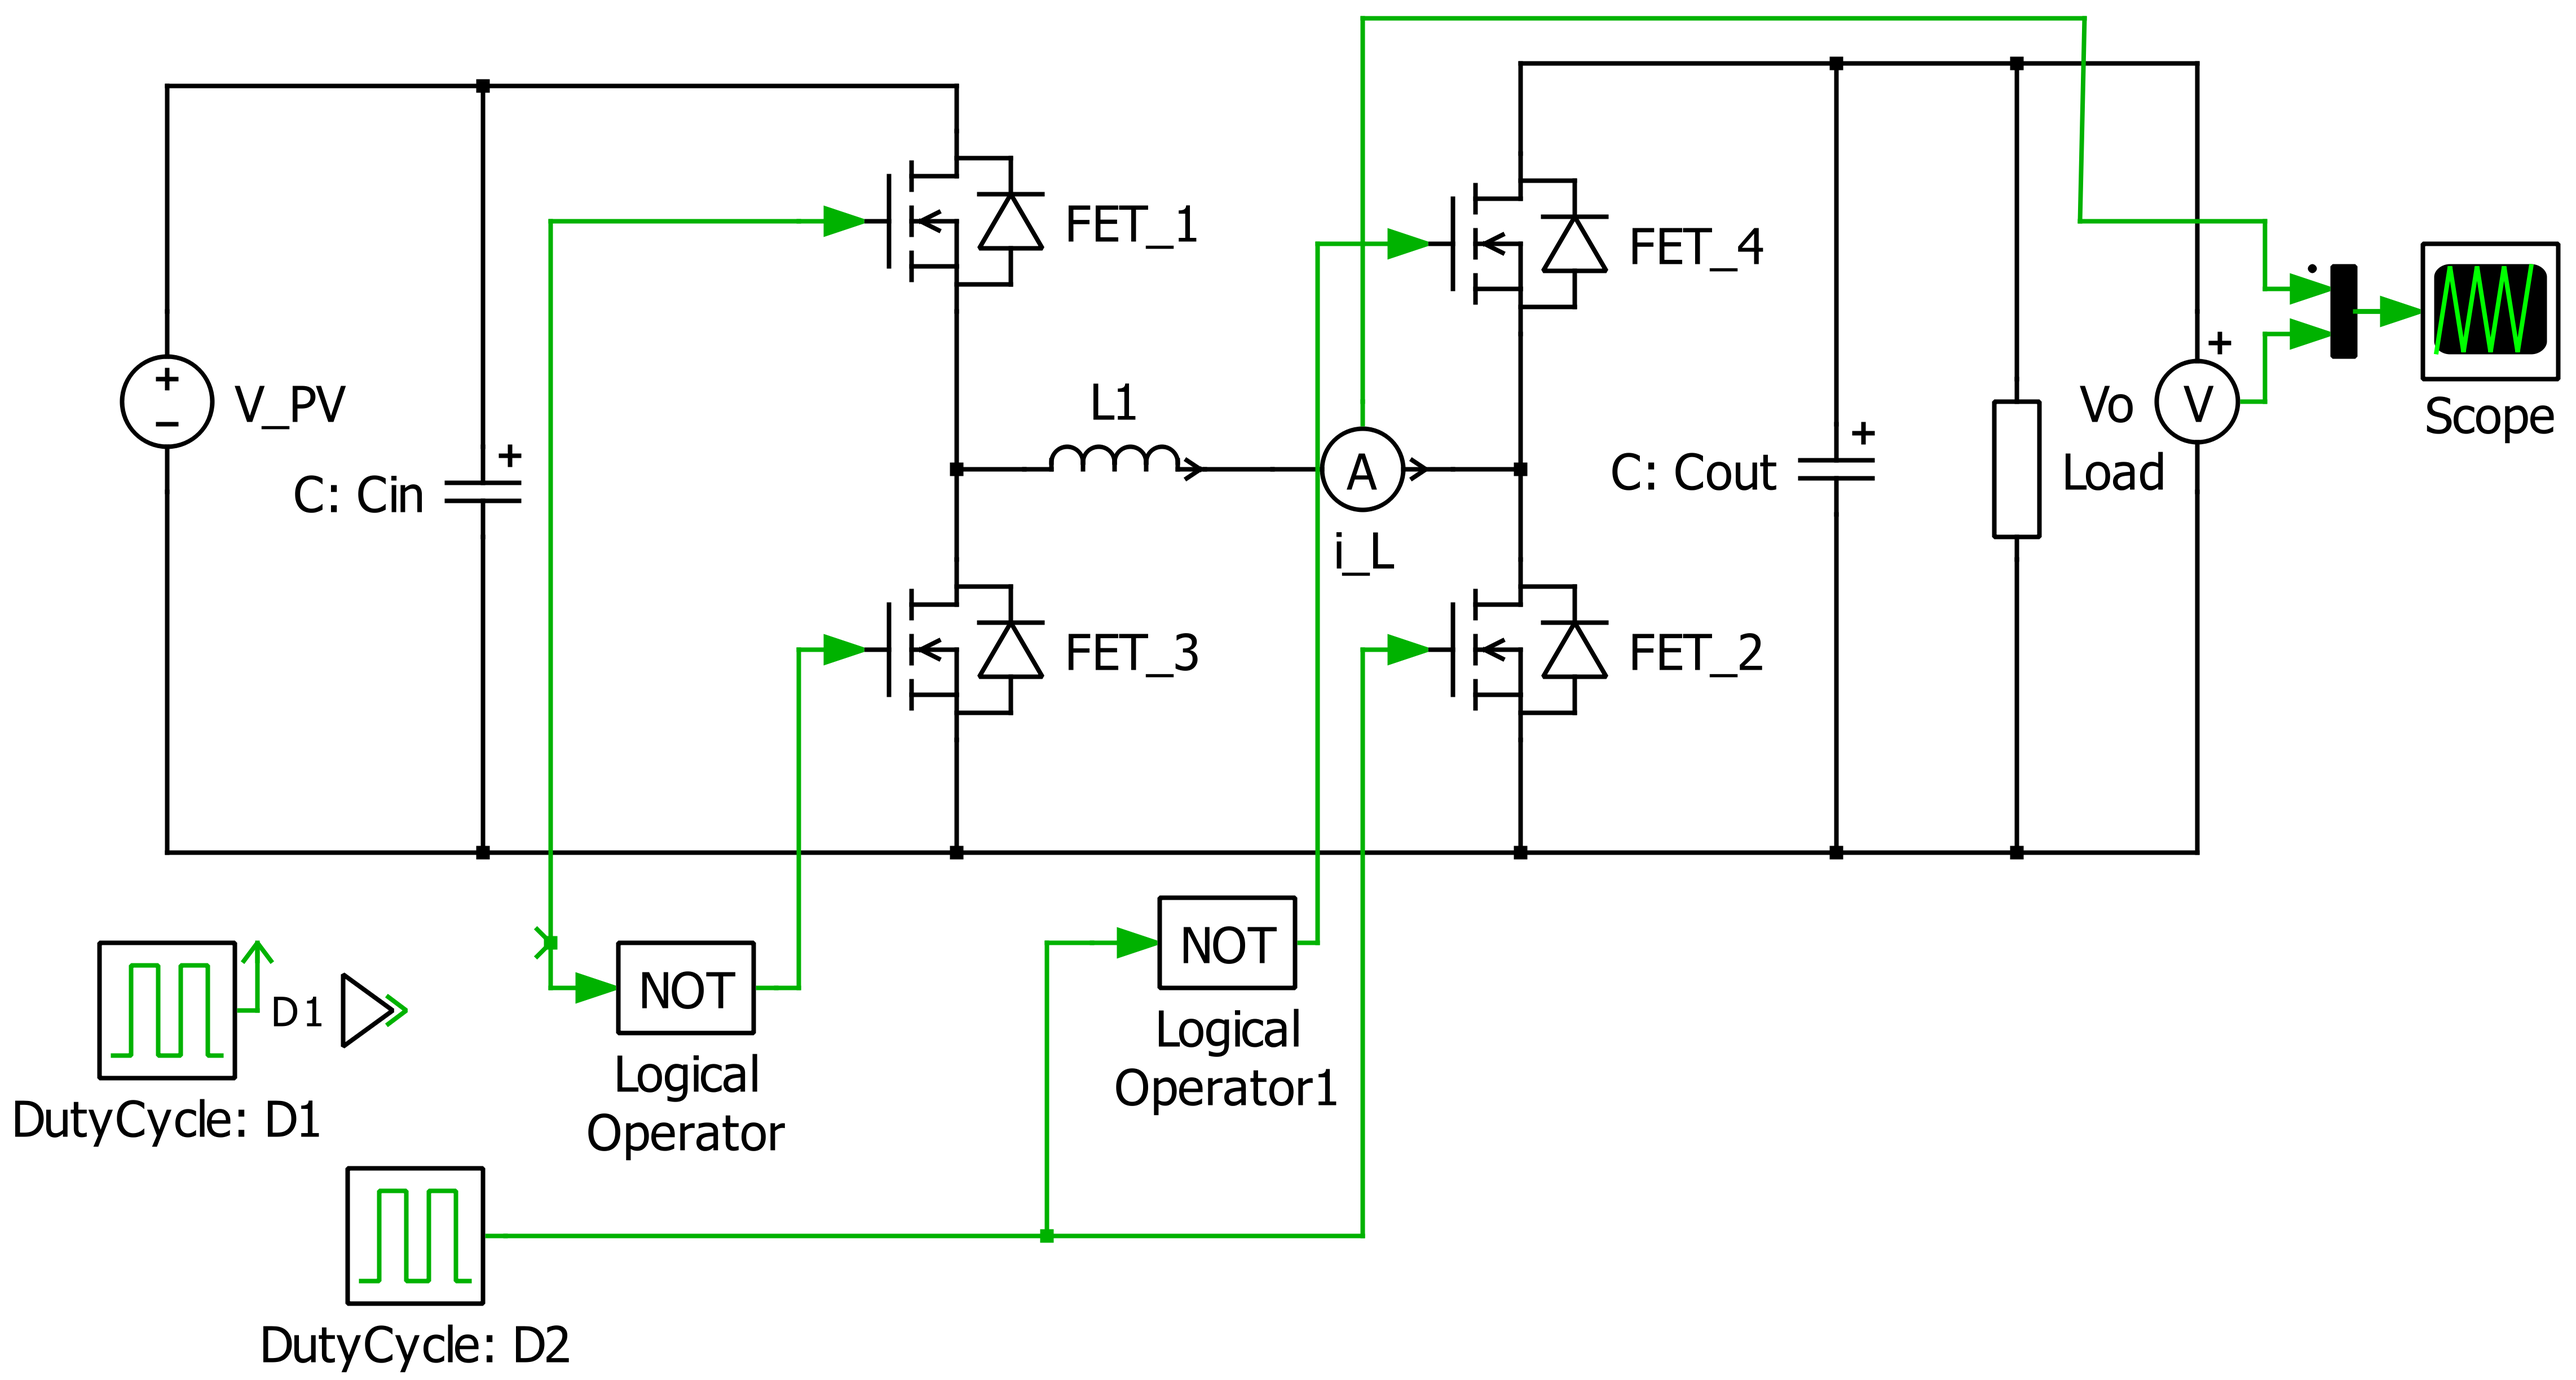
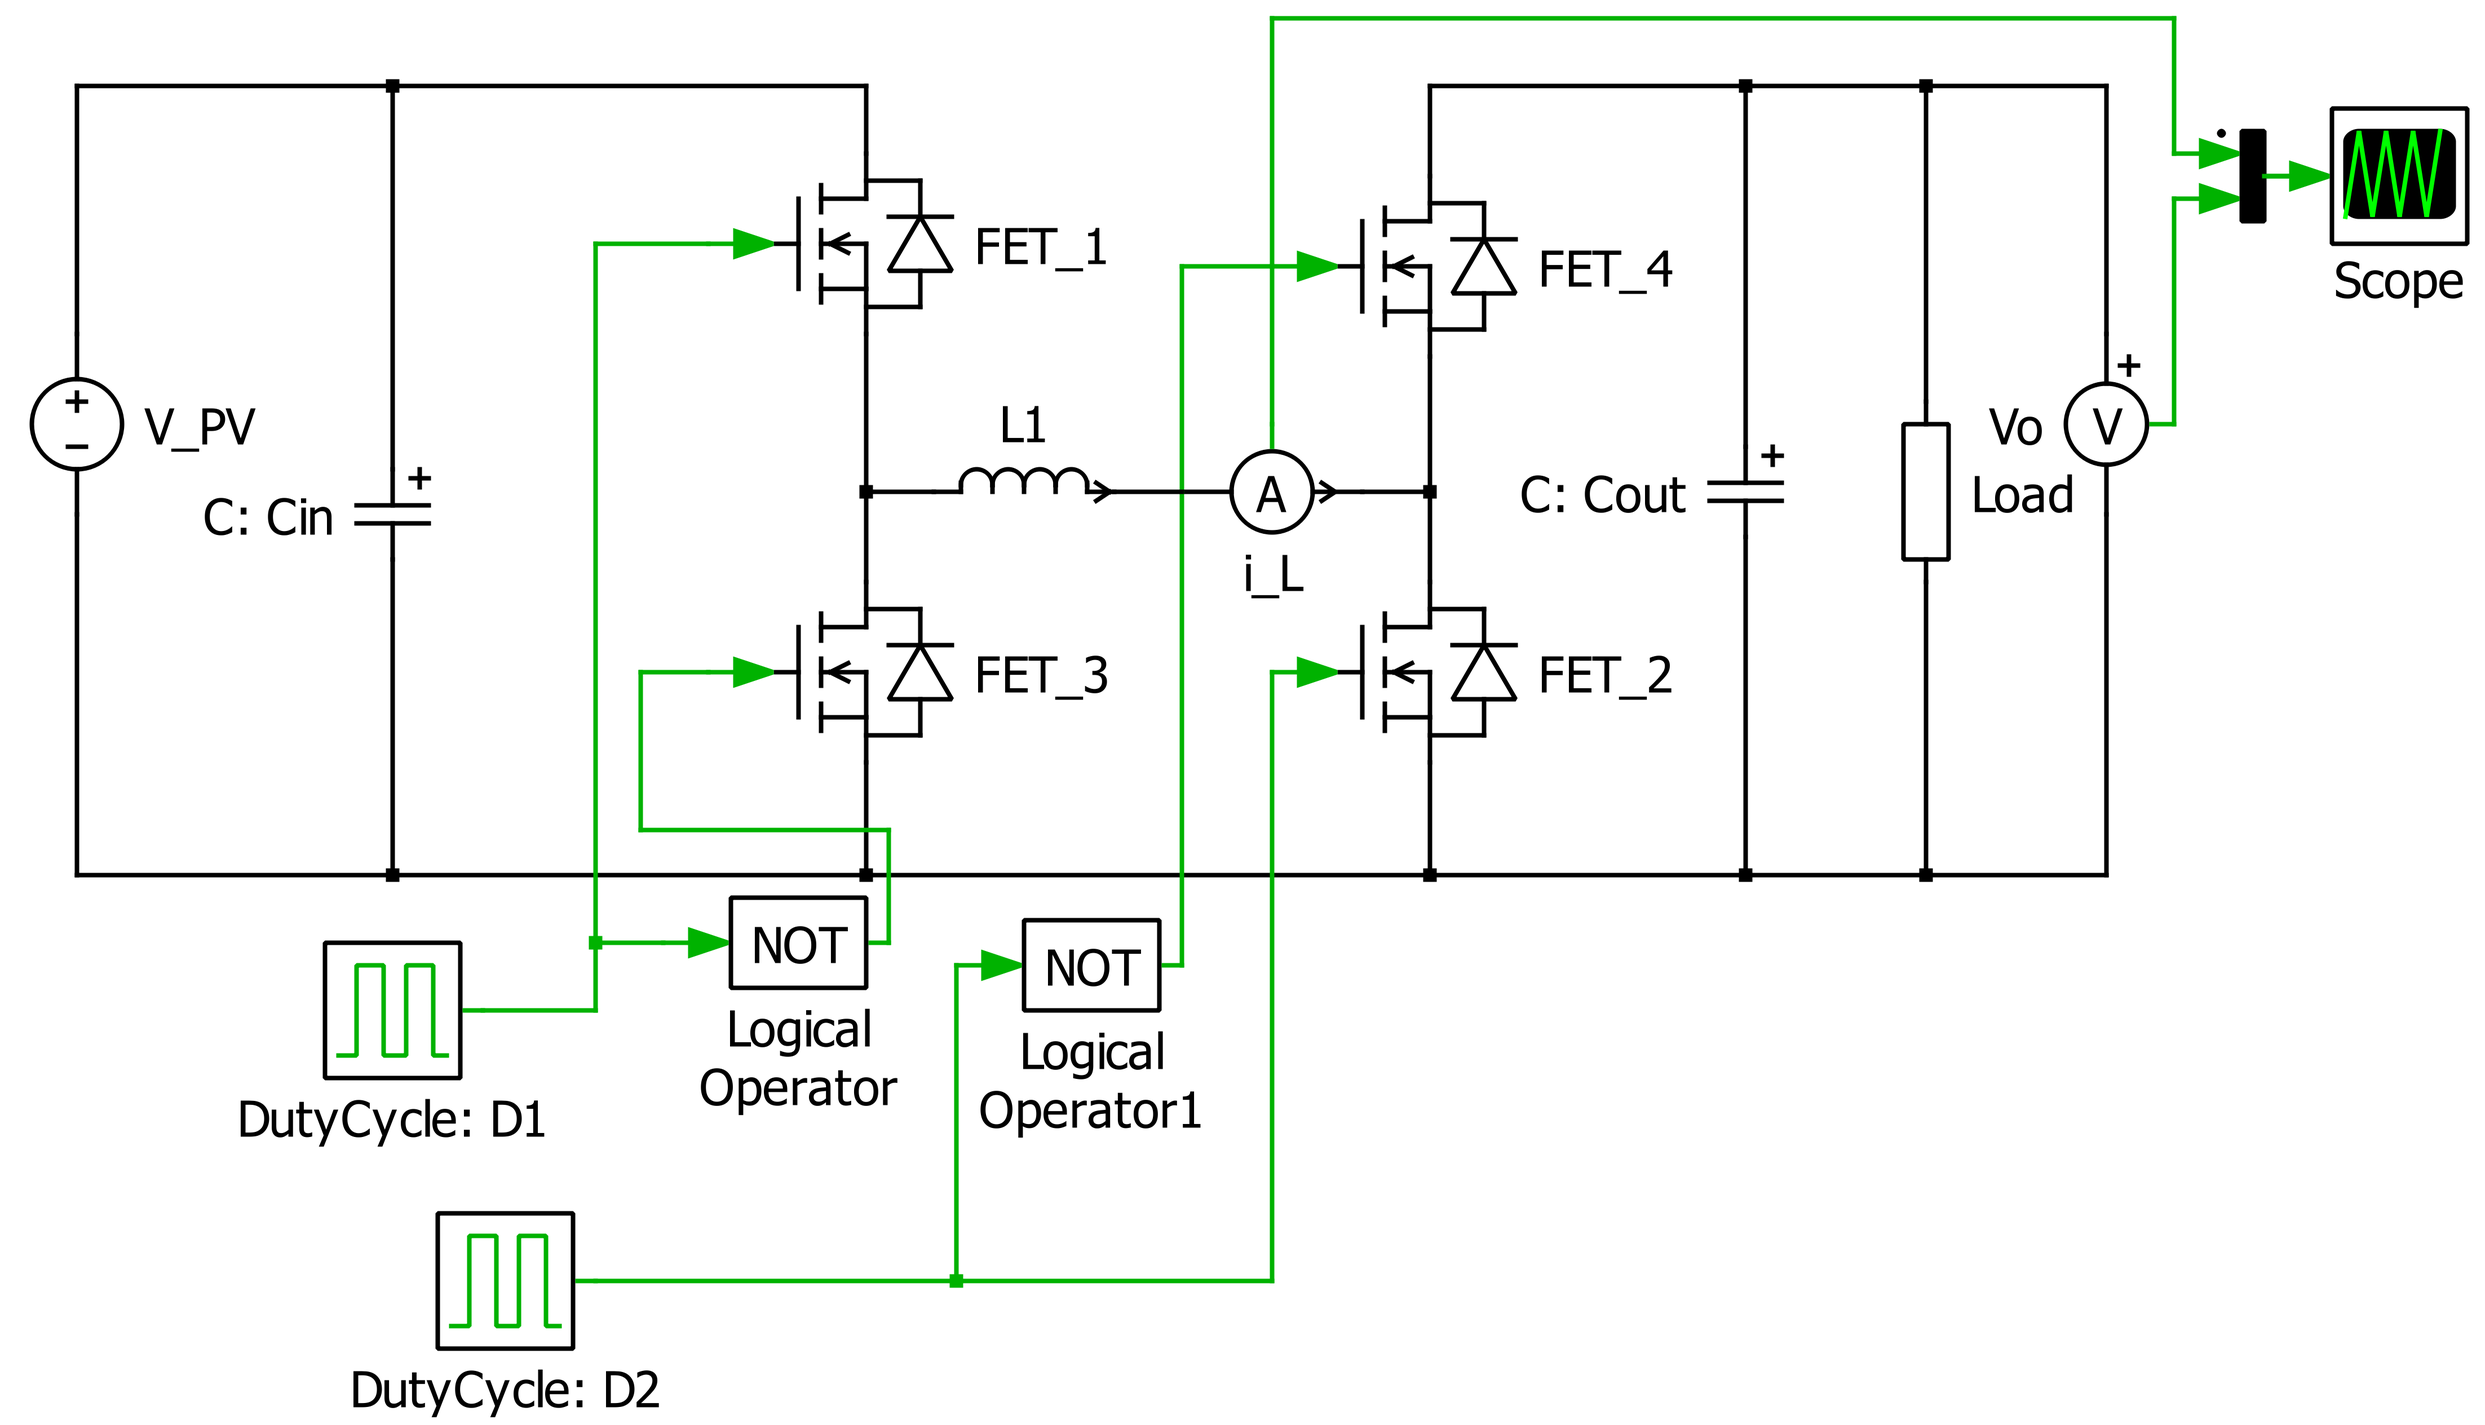
update

diff --git a/Reports/P1/docs/converterDesign/component_sizing/passives.tex b/Reports/P1/docs/converterDesign/component_sizing/passives.tex
@@ -1,18 +1,17 @@
-\todo{Brief intro to the whole chapteR?}
-To calculate the values of the passive components which includes the inductor, $C_{in}$ and $C_{out}$, a matlab  script has been created. This was done to see the different component values when frequency, number of mics and thereby different output voltages was used \todo{switching frequency, MICs, were used. Stef}. This also means that values for both buck and boost mode has been calculated \todo{different component values for... have been calculated. Stef}.
+To calculate the values of the passive components which includes the inductor, $C_{in}$ and $C_{out}$, a matlab  script has been created. This was done to see the different component values when switching frequency, number of MICs and thereby different output voltages were used. This also means that different component values for both buck and boost mode have been calculated.
 
 First of all the frequency was set to do a sweep from 20kH to 100kHz with steps of 10kHz. This was done because at this moment a switching frequency was not chosen yet, and in this way it was possible to see, how the passive components would change with different frequencies. 
-The different output voltages was calculated by the voltage of the inverter $V_{inverter}=360V$ divided by the number of mics \todo{MICs. Check everywhere because it must be in capital letters. Stef}. Again for the number of mics a sweep was made starting with 4 mics and ending with 15 in steps of 1.
+The different output voltages was calculated by the voltage of the inverter $V_{inverter}=360V$ divided by the number of MICs. Again for the number of MICs a sweep was made starting with 4 MICs and ending with 15 in steps of 1.
 
 The maximum voltage from the PV panel is $V_{mpp}=32.6V$ \todo{is it? AT}
-and to get the maximum current ohms law\todo{is it ohms law?Stef} can be used, since the maximum power from the PV panel is 300W.
+and to get the maximum current ohms law can be used, since the maximum power from the PV panel is 300W.
 
 \begin{equation}
 I_{mpp} = 300W/32.6V = 9.2A
 \end{equation} 
 
 From the $V_{mpp}$ and $I_{mpp}$ a constant K is calculated which will be an approximation of the relationship between the input voltage and input current.
-By doing this the behaviour is seen as linear dependant \todo{Why linear dependant? The relation between V and I in the solar panel isn't linear. Stef}.
+By doing this the behaviour is seen as linear dependant. The real relation between V and I in the solar panel is not completely linear but this is a good approximation. \todo{Why linear dependant? The relation between V and I in the solar panel isn't linear. Stef}.
 \begin{equation}
  K = 32.6V/9.2A = 3.54
  \end{equation} 
@@ -22,18 +21,16 @@ The equations for the modes can be found in the appendix \ref{ch:Appbuckboost}. 
 \begin{equation}
 M = V_{out}/V_{in}
 \end{equation}
-So a value smaller than one will need a decrease in voltage and therefore buck mode. On the other hand values bigger\todo{gain values HIGHER than one} than one will need an increase in voltage which will be the boost mode. The exact value also tells how big an increase or decrease in voltage the converter needs to perform. \todo{This is not the only reason for M, also to obtain duties and understand the increase or decrease factor. AT}
-
-All of this can be seen in the matlab script in the appendix folder \todo{Where will the script be??} \todo{I think we don't need to include this script. Stef}
+So a value smaller than one will need a decrease in voltage and therefore buck mode. On the other hand values higher than one will need an increase in voltage which will be the boost mode. The exact value also tells how big an increase or decrease factor in voltage the converter needs to perform.
 
 The worst case values for the 3 components with variable frequency, number of mics and voltage could then be obtained from the script. 
-In \ref{buckind} and \ref{boostind} the inductance L has been isolated and calculated with a current ripple of $10\%$ to get the different inductor values. For iteration 1 the frequency will be $50kHz$. Looking at the sheet\todo{which sheet?Stef} the worst case will be in boost mode with $V_{out}=90V$ and $P=15W$\todo{How do you get this and why is the minimum power?Stef}. This is the minimum power which the mic will be working. If lower power could be obtained, the inductance would be higher. The inductance is calculated below:
+In \ref{buckind} and \ref{boostind} the inductance L has been isolated and calculated with a current ripple of $10\%$ to get the different inductor values. For iteration 1 the frequency will be $50kHz$. Looking at the output of the script the worst case will be in boost mode with $V_{out}=90V$ and $P=15W$\todo{How do you get this and why is the minimum power?Stef}. This is the minimum power which the MIC will be working at which has been determined by the group. If lower power could be obtained, the inductance would be higher. The inductance is calculated below:
 
 \begin{equation}\label{buckind}
-L = \frac{7.29V\cdot 0.919}{0.206A\cdot 50kHz} = 650\mu H
-\end{equation} \todo{The equations should have the general form with the name of the parameters because putting directly the numbers is very confuse... Stef}
+L = \frac{V_{in}\cdot D}{\Delta I_L\cdot f}= \frac{7.29V\cdot 0.919}{0.206A\cdot 50kHz} = 650\mu H
+\end{equation}
 
-Where $7.29V$ is the input voltage at $15W$, $0.206A$ is the allowed ripple current, 50kHz the switching frequency and 0.919 is the dutycycle which has been calculated in this way:
+Where $7.29V$ is the input voltage at $15W$ and 0.919 is the dutycycle which has been calculated in this way:
 
 \begin{equation} \label{boostD}
 D = \frac{V_{out}-V_{in}}{V_{out}} = \frac{90V-7.29V}{90V} = 0.919
@@ -45,8 +42,8 @@ The $C_{in}$ and $C_{out}$ values are calculated with different voltage ripple p
 For $C_{in}$ the worst case will be in buck mode\todo{why??Stef} with $V_{in}=32.6V$, $V_{out}=24V$ and $P=300W$ which is calculated below:
 
 \begin{equation}
-C_{in} = \frac{12.5A\cdot 0.736\cdot (1-0.736)}{0.033V\cdot 50kHz} = 1.49mF
-\end{equation}    \todo{same as before I think it isn't clear the eq having the number directly even though you mention what each number is after the eq. I think it's better to have letters in the equations and then say which value. Stef}
+C_{in} = \frac{I_{out}\cdot D\cdot (1-D)}{\Delta V_o\cdot f} = \frac{12.5A\cdot 0.736\cdot (1-0.736)}{0.033V\cdot 50kHz} = 1.49mF
+\end{equation}  
 
 Where $12.5A$ is the output current calculated below:
 
@@ -54,7 +51,7 @@ Where $12.5A$ is the output current calculated below:
 I_{out} = P/V_{out} = 300W/24V = 12.5A
 \end{equation}
 
-$0.033V$ is the allowed ripple voltage at the input, $50kHz$ the switching frequency and 0.736 the dutycycle which is calculated as below:
+$0.033V$ is the allowed ripple voltage at the input and 0.736 the dutycycle which is calculated as below:
 
 \begin{equation} \label{buckduty}
 D = \frac{V_{out}}{V_{in}} = \frac{24V}{32.6V} = 0.736
@@ -64,14 +61,14 @@ D = \frac{V_{out}}{V_{in}} = \frac{24V}{32.6V} = 0.736
 The output capacitor worst case is also in buck mode but with $V_{out}=30V$ \todo{30V?¿?AT} instead. This is calculated by isolating the capacitance C in \ref{buckc}. \todo{WTF?}
 
 \begin{equation} \label{buckc} 
-C_{out} = \frac{32.6V}{8\cdot 48\mu H*50kHz^2\cdot 0.15V} = 16.718\mu F
+C_{out} =\frac{V_{in}}{8\cdot L*f^2\cdot \Delta V_o} = \frac{32.6V}{8\cdot 48\mu H*50kHz^2\cdot 0.15V} = 16.718\mu F
 \end{equation}
 
-where $32.6V$ is the input voltage, $50kHz$ is the switching frequency, $0.15V$ the allowed ripple voltage at the output and $48\mu H$ is the inductance. This is inductance is calculated at worst case. 
+where $0.15V$ is the allowed ripple voltage at the output and $48\mu H$ is the inductance. This inductance is calculated at worst case. 
 Since the converter is not working in worst case and the inductor is bigger, a much lower ripple voltage than the 0.15V will be obtained. As seen in the next section the actual output capacitor is $820\mu F$ which will give a ripple voltage as below:
 
 \begin{equation} \label{buckc} 
-\Delta V_o = \frac{32.6V}{8\cdot 650\mu H*50kHz^2\cdot 820\mu F} = 0.003V
+\Delta V_o = \frac{V_{in}}{8\cdot L*f^2\cdot C_{out}} = \frac{32.6V}{8\cdot 650\mu H*50kHz^2\cdot 820\mu F} = 0.003V
 \end{equation}
 \todo{even lower because the actual inductor is bigger as well. JK}  
    

diff --git a/Reports/P1/docs/converterDesign/component_sizing/openloop.tex b/Reports/P1/docs/converterDesign/component_sizing/openloop.tex
@@ -9,7 +9,6 @@ To check that the calculations have been made correctly, an open loop simulation
 		\label{openloop}
 	\end{center}
 \end{figure}
-\todo{Modify this figure because the duty cycle D1 is not connected. Stef}
 The values for the components are $C_{in}=1880\mu F$, $C_{out}=820\mu F$ and $L1=1mH$ as described earlier and $V_{in}=32.6V$. At first the buck mode is simulated. In this mode D2 is 0. This means that FET2 is 0 and FET4 is one because of the NOT operator. The dutycycle for D1 and thereby FET1 is sat to 0.736 which was calculated in \ref{buckduty}. This should give an output voltage of 24V which can be seen in figure \ref{bucksimulation}. The load is $1.92\Omega$ because that gives 300W with an output voltage of 24V.     
 \begin{figure}[H]
  	\begin{center}
